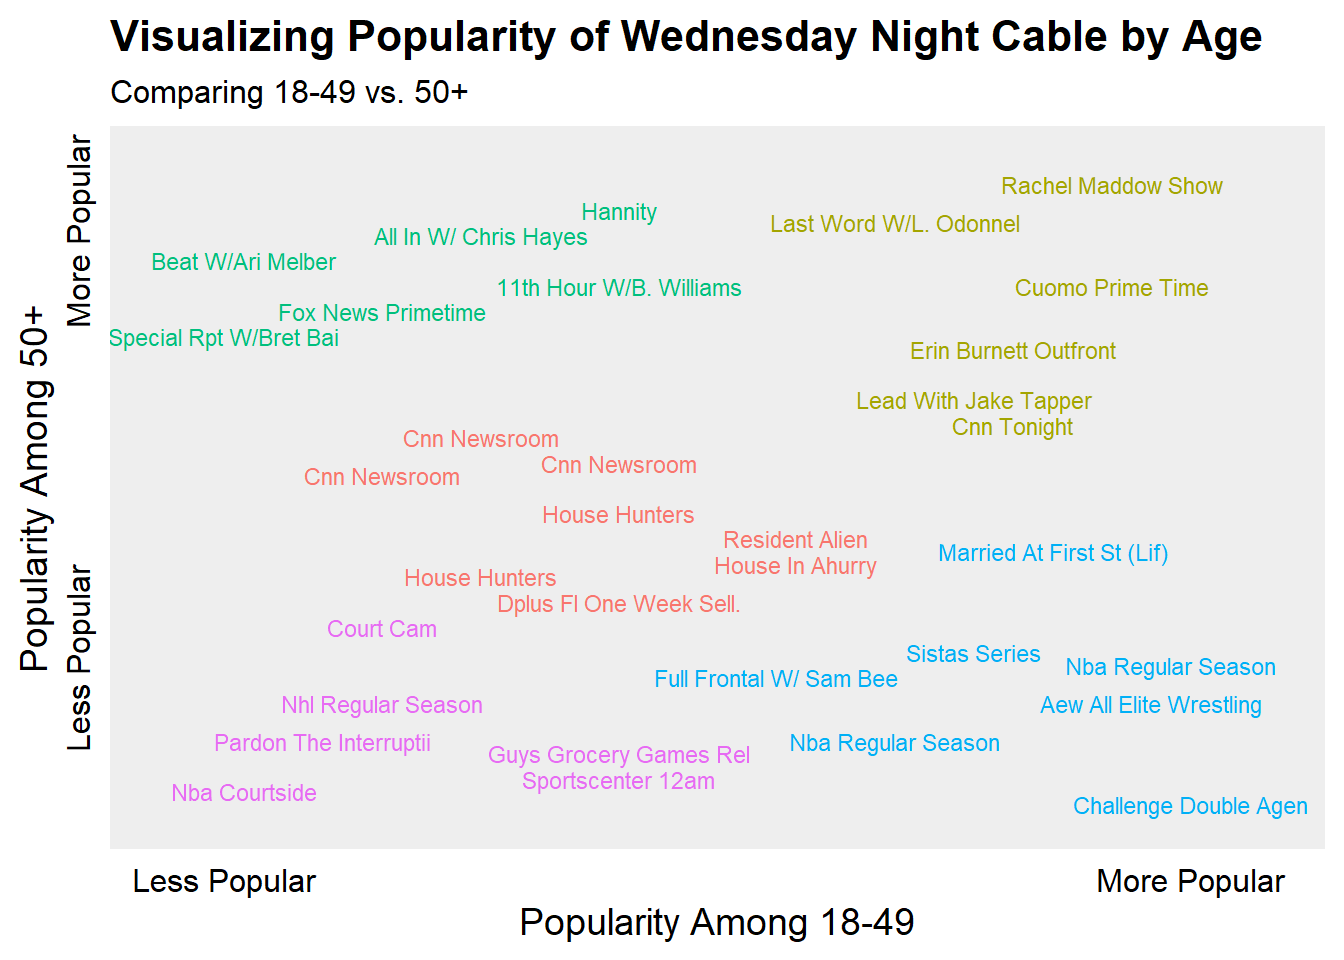
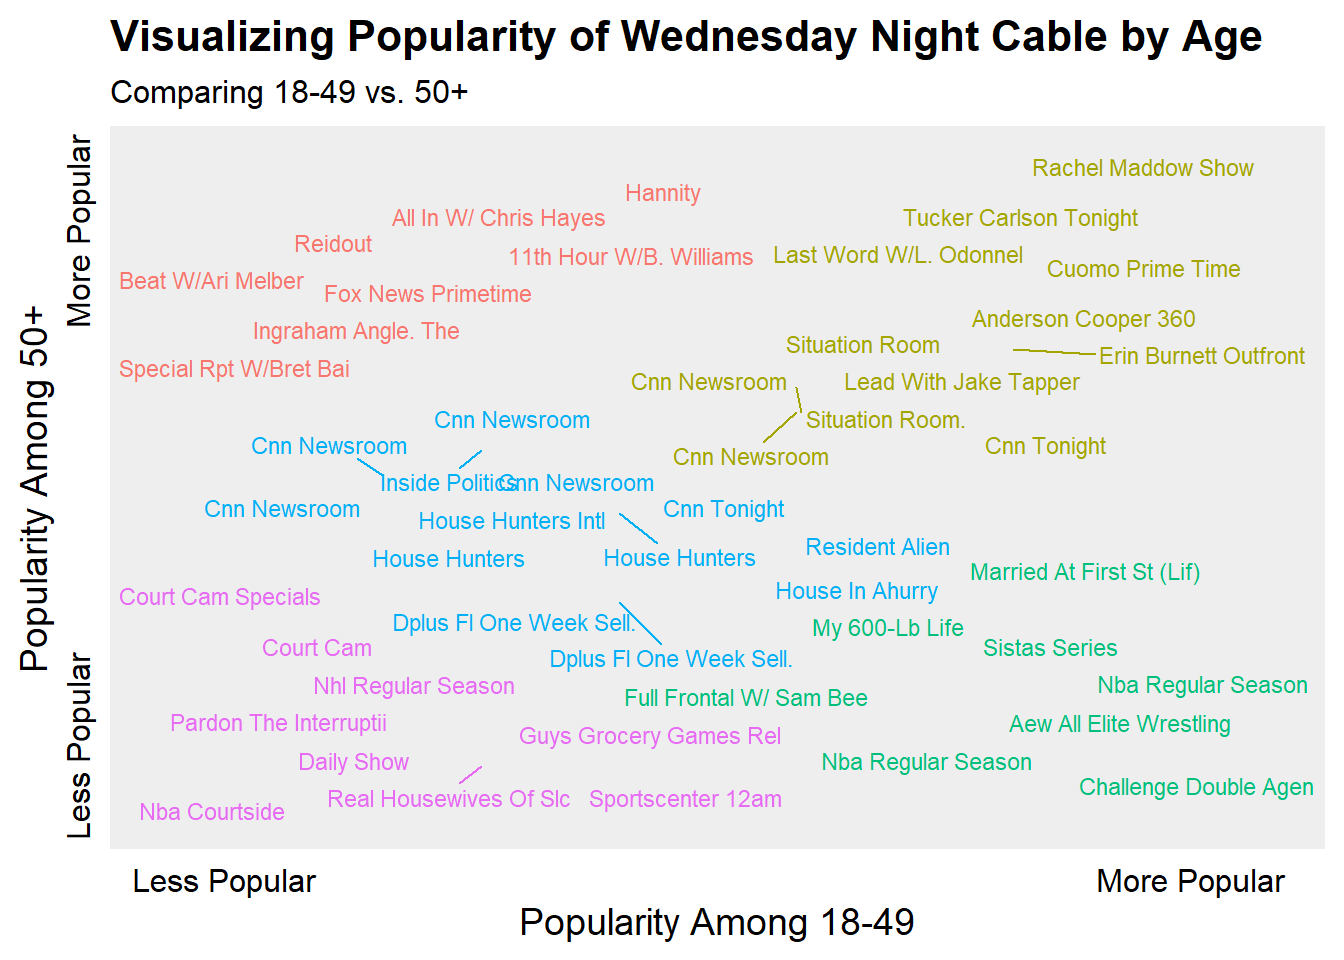
small changes

diff --git a/content/post/2021-03-01-exploring-wednesday-night-cable-ratings-with-ocr/index.html b/content/post/2021-03-01-exploring-wednesday-night-cable-ratings-with-ocr/index.html
@@ -12,7 +12,7 @@ tags:
 subtitle: ''
 summary: ''
 authors: []
-lastmod: '2021-02-13T16:25:16-05:00'
+lastmod: '2021-03-01T01:25:16-05:00'
 featured: no
 image:
   caption: ''
@@ -102,9 +102,11 @@ image_ggplot(processed_image)</code></pre>
     )
   )
   
+  #Grab the Column starting at Col Start and with width Col with
   tmp &lt;- processed_image %&gt;% 
     image_crop(geometry_area(col_width, 1009, col_start, 0)) 
   
+  # Run OCR with the correct whitelist and turn into a dataframe
   tmp %&gt;% 
     ocr(engine = get(format_code)) %&gt;% 
     str_split(&quot;\n&quot;) %&gt;%
@@ -114,11 +116,13 @@ image_ggplot(processed_image)</code></pre>
     filter(!is.na(value), str_length(value) &gt; 0)
 }</code></pre>
 <p>The function above takes in a column width and a column start to crop the column and then a label to choose the whitelist for each specific column. The parameters are defined in a list and passed into <code>purrr</code>’s <em>pmap()</em> function. Finally, all the extracted columns will combined together.</p>
-<pre class="r"><code>all_ocr &lt;- list(col_width = c(168, 37, 33, 34, 35, 34),
+<pre class="r"><code>#Run the function all the various columns
+all_ocr &lt;- list(col_width = c(168, 37, 33, 34, 35, 34),
                 col_start = c(28, 196, 307, 346, 385, 598),
                 format_code = c(&quot;all_chars&quot;, &#39;only_chars&#39;, rep(&quot;ratings&quot;, 4))) %&gt;% 
   pmap(ocr_text) 
 
+#Combine all the columns together and set the names
 ratings &lt;- all_ocr %&gt;% 
   bind_cols() %&gt;% 
   set_names(nm = &quot;telecast&quot;, &quot;network&quot;, &quot;p_18_49&quot;, &quot;f_18_49&quot;, &quot;m_18_49&quot;,
@@ -221,7 +225,7 @@ knitr::kable(head(ratings_clean, 3))</code></pre>
 cols &lt;- scales::hue_pal()(n_distinct(ratings_clean$network))
 names(cols) &lt;- levels(ratings_clean$network)
 
-##Top Show By the Key Demo (By Male, By Female)
+##Top Show By the Key Demo (Combined)
 key_all &lt;- ratings_clean %&gt;% 
   slice_max(p_18_49, n = 10) %&gt;% 
   ggplot(aes(x = fct_reorder(telecast, p_18_49), y = p_18_49, fill = network)) + 
@@ -239,6 +243,7 @@ key_all &lt;- ratings_clean %&gt;%
       plot.title.position = &#39;plot&#39;
     )
 
+#Male Ratings only
 key_male &lt;- ratings_clean %&gt;% 
   slice_max(m_18_49, n = 5) %&gt;% 
   ggplot(aes(x = fct_reorder(telecast, m_18_49), y = m_18_49, fill = network)) + 
@@ -256,6 +261,7 @@ key_male &lt;- ratings_clean %&gt;%
     plot.title.position = &#39;plot&#39;
   )
 
+# Female rating only
 key_female &lt;- ratings_clean %&gt;% 
   slice_max(f_18_49, n = 5) %&gt;% 
   ggplot(aes(x = fct_reorder(telecast, f_18_49), y = f_18_49, fill = network)) + 
@@ -273,7 +279,7 @@ key_female &lt;- ratings_clean %&gt;%
     plot.title.position = &#39;plot&#39;
   )
     
-
+# Combining everything with patchwork syntax
 key_all / (key_male | key_female) +
   plot_layout(guides = &quot;collect&quot;) + 
   plot_annotation(
@@ -350,7 +356,7 @@ bind_rows(
 </div>
 <div id="the-oldest-and-youngest-shows-in-the-top-50" class="section level3">
 <h3>The Oldest and Youngest Shows in the Top 50</h3>
-<p>Similar to the Most Male and Most Female shows in the Top 50 Cable Programs, I’d like to see which shows skew older vs. younger. To do this, I’ll rank order the 18-49 demo and the 50+ demo and plot the ranks against each other. Now there are some massive caveats here in the sense that my data is the Top 50 shows by the 18-49 demo, so its not clear that the 50+ demo is fully represented. Additionally, popularity for each dimension is relative since I don’t know the actual number of people in each demo.</p>
+<p>Similar to the Most Male and Most Female shows in the Top 50 Cable Programs, I’d like to see which shows skew older vs. younger. To do this, I’ll rank order the 18-49 demo and the 50+ demo and plot the ranks against each other. Now there are some massive caveats here in the sense that my data is the Top 50 shows by the 18-49 demo, so its not clear that the 50+ demo is fully represented. Additionally, popularity for each dimension is relative since I don’t know the actual number of people in each demo. Finally, since both scales are ranked, it won’t show the full distance between levels of popularity (e.g, The Challenge is much more popular than the next highest show). This was done to produce a better looking visualization.</p>
 <pre class="r"><code>#Rank Order the Shows for the 2 Columns
 dt &lt;- ratings_clean %&gt;% 
   transmute(
@@ -369,11 +375,11 @@ dt2 &lt;- dt %&gt;%
 
 #Plot
 ggplot(dt2, aes(x = young_rnk, y = old_rnk, color = factor(cluster))) + 
-  geom_text(aes(label = telecast), size = 3, check_overlap = T) +
+  ggrepel::geom_text_repel(aes(label = telecast), size = 3) +
   scale_color_discrete(guide = F) + 
   scale_x_continuous(breaks = c(1, 50),
                      labels = c(&quot;Less Popular&quot;, &quot;More Popular&quot;)) + 
-  scale_y_continuous(breaks = c(20, 54),
+  scale_y_continuous(breaks = c(13, 54),
                      labels = c(&quot;Less Popular&quot;, &quot;More Popular&quot;)) + 
   coord_cartesian(xlim = c(-2, 54), ylim = c(0, 52)) + 
   labs(x = &quot;Popularity Among 18-49&quot;,
@@ -389,6 +395,7 @@ ggplot(dt2, aes(x = young_rnk, y = old_rnk, color = factor(cluster))) +
 
   )</code></pre>
 <p><img src="index_files/figure-html/unnamed-chunk-4-1.png" width="672" /></p>
+<p>Somewhat surprising (at least to me), that Rachel Maddow and Tucker Carlson are the consensus most popular shows across the two demos. My beloved Challenge is very popular amongst the 18-49 demo and very unpopular among 50+. Sports shows tended to be generally the least popular by either demo and finally certain MSNBC and Fox News shows were popular among the 50+ demo but not the 18-49.</p>
 </div>
 </div>
 <div id="concluding-thoughts" class="section level2">
